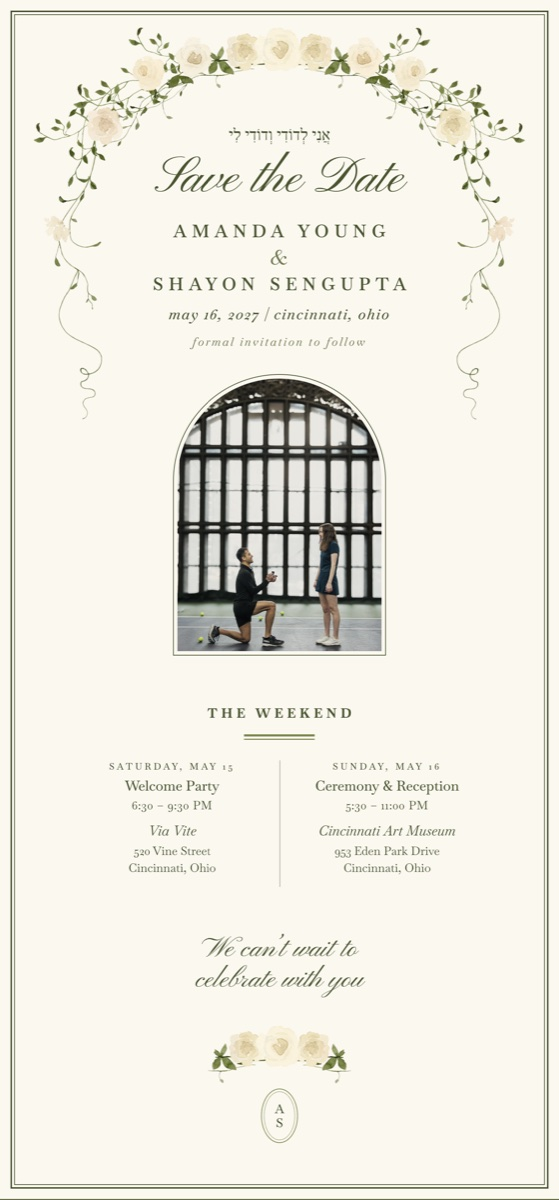
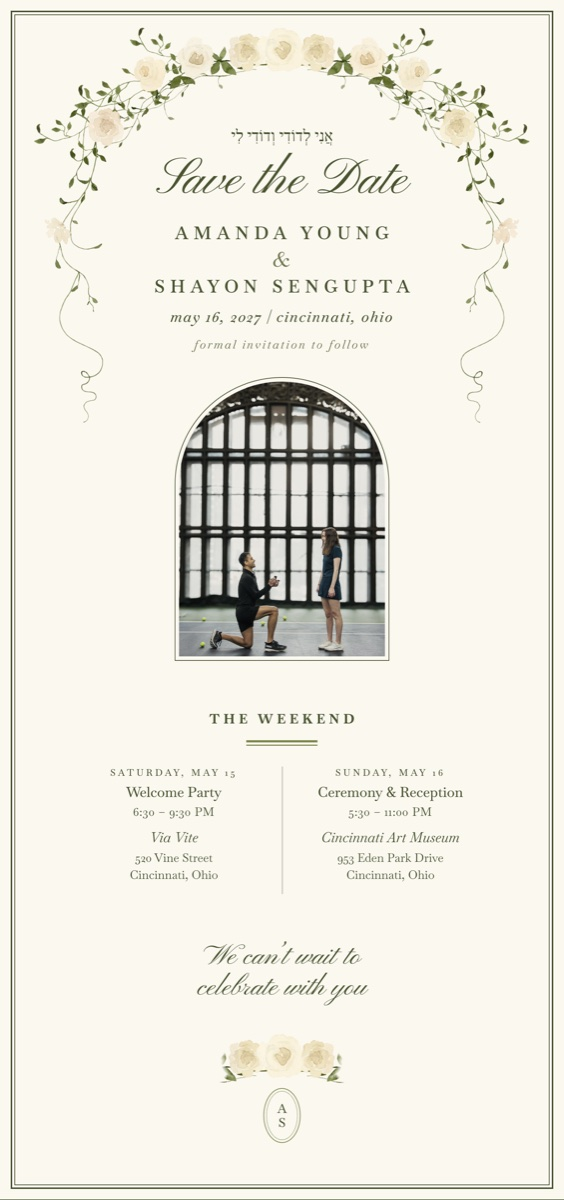
Footer roses: three roses with just a little greenery fading out

diff --git a/index.html b/index.html
@@ -28,7 +28,7 @@
 <link rel="preconnect" href="https://fonts.googleapis.com">
 <link rel="preconnect" href="https://fonts.gstatic.com" crossorigin>
 <link href="https://fonts.googleapis.com/css2?family=Baskervville:ital,wght@0,400;0,500;0,600;0,700;1,400;1,500&family=Frank+Ruhl+Libre:wght@400;500&family=Pinyon+Script&display=swap" rel="stylesheet">
-<link rel="stylesheet" href="styles.css?v=65" />
+<link rel="stylesheet" href="styles.css?v=66" />
 <script>
   // ?preview=email / ?preview=og switch the page into fixed layouts used to render the share images
   var pv = new URLSearchParams(location.search).get("preview");
@@ -168,7 +168,7 @@
       </section>
 
       <footer class="card-footer">
-        <img class="footer-roses" src="assets/rose-sprig.webp?v=3" alt="" aria-hidden="true" width="426" height="175">
+        <img class="footer-roses" src="assets/rose-sprig.webp?v=4" alt="" aria-hidden="true" width="351" height="140">
         <span class="footer-mark" role="img" aria-label="A &amp; S"><span>A</span><span>S</span></span>
       </footer>
 

diff --git a/email.html b/email.html
@@ -22,7 +22,7 @@
         <tr>
           <td align="center" style="padding:0;">
             <a href="https://shayon297.github.io/save-the-date/" style="text-decoration:none;">
-              <img src="https://shayon297.github.io/save-the-date/assets/card-email.jpg?v=28" width="600" alt="Save the Date — Shayon Sengupta and Amanda Young, Sunday, May 16, 2027, Cincinnati Art Museum" style="display:block;width:100%;max-width:600px;height:auto;border:0;box-shadow:0 18px 40px -22px rgba(0,0,0,0.45);" />
+              <img src="https://shayon297.github.io/save-the-date/assets/card-email.jpg?v=29" width="600" alt="Save the Date — Shayon Sengupta and Amanda Young, Sunday, May 16, 2027, Cincinnati Art Museum" style="display:block;width:100%;max-width:600px;height:auto;border:0;box-shadow:0 18px 40px -22px rgba(0,0,0,0.45);" />
             </a>
           </td>
         </tr>

diff --git a/styles.css b/styles.css
@@ -499,7 +499,7 @@ body{
   color: var(--ink);
 }
 /* a small cluster of the same ivory roses above the monogram, to balance the arch */
-.footer-roses{ display: block; width: 196px; max-width: 56%; height: auto; margin: 0 auto 6px; }
+.footer-roses{ display: block; width: 170px; max-width: 50%; height: auto; margin: 0 auto 6px; }
 .footer-mark::after{          /* inner rule */
   content: "";
   position: absolute;
